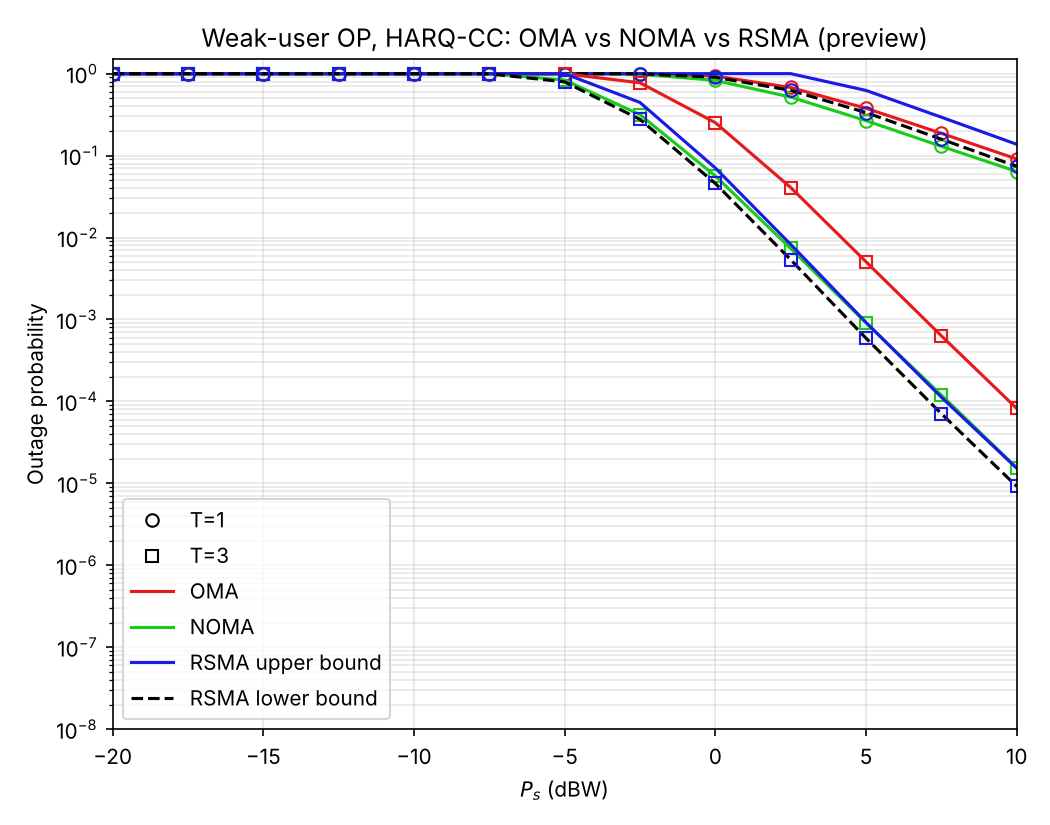
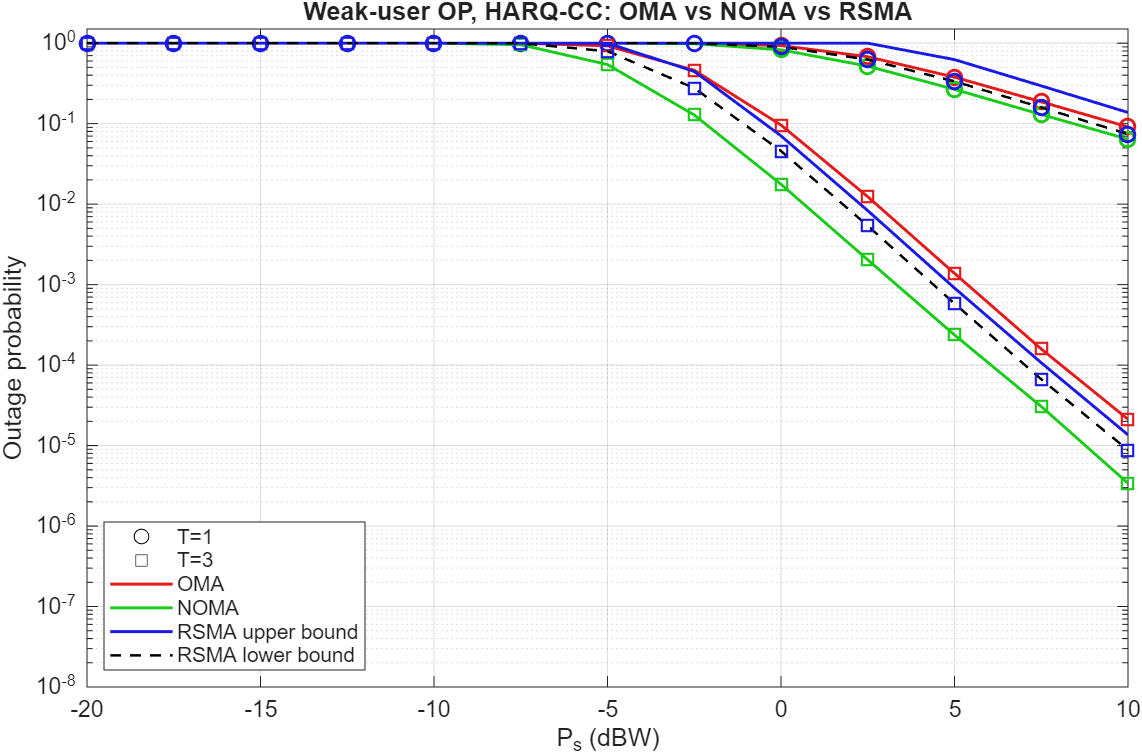
v2: fix HARQ user ordering, drop Statistics Toolbox dependency
- order_users.m (new): weak/strong roles fixed across HARQ rounds
  (p.order = 'first' default; 'sum' genie; 'round' = old per-round min/max,
  which mixed two physical users and is inconsistent with HARQ-CC)
- sr_gain.m: replace randg (needs Statistics and Machine Learning Toolbox)
  with a built-in Marsaglia-Tsang Gamma sampler, checked against eq. (4)
- rsma_outage.m: check alpha_c + sum(alpha_p) = 1
- fig2_check.m: paper reference values, ours-vs-paper printout, legend
- fig4_reproduce.m: print ordering, optional fairRSMA weak-user curve
- istn_params.m: p.order, p.extra_gain_dB diagnostic knob (default 0)
- plots forced to light theme (R2025b dark mode hid markers)
- README: v2 changes, assumptions, known gaps vs the paper
- results_preview.png / fig2_check_v2.png / run_output_v2.txt regenerated
  in MATLAB R2025b

diff --git a/fig4_reproduce.m b/fig4_reproduce.m
@@ -1,17 +1,21 @@
 %% FIG4_REPRODUCE  Weak-user outage: HARQ-CC aided OMA vs NOMA vs RSMA
 % Reproduces Fig. 4 of Hu et al., IEEE TVT 2025 (Monte Carlo only).
 % Files needed in the same folder:
-%   istn_params.m  sr_gain.m  oma_outage.m  noma_outage.m  rsma_outage.m
+%   istn_params.m  sr_gain.m  order_users.m  oma_outage.m  noma_outage.m  rsma_outage.m
+% RSMA curve = generic user (as in the paper's analysis). Set fairRSMA = true
+% to also plot RSMA's weak user under the same ordering rule as NOMA/OMA.
 clear; clc;
 
 p    = istn_params();
 PsdB = -20:2.5:10;          % paper's x-axis
 Tset = [1 3];               % paper plots T = 1 and T = 3
 N    = 1e7;                 % samples per point. OP below ~1e-6 needs N >= 1e8
+fairRSMA = false;           % true: add RSMA weak-user curve (like-for-like)
 
 fprintf('g_k = %.3f (%.2f dB),  N0 = %.3e W\n', p.g, 10*log10(p.g), p.N0);
 fprintf('R1 = %.4f bps/Hz | thresholds: NOMA %.4f, OMA %.4f, RSMA c/p %.2f/%.2f\n', ...
         p.R1, p.g_noma, p.g_oma, p.gc_th, p.gp_th);
+fprintf('ordering = %s | extra gain = %g dB\n', p.order, p.extra_gain_dB);
 
 res = struct();
 for it = 1:numel(Tset)
@@ -24,11 +28,17 @@ for it = 1:numel(Tset)
     [res(it).rsma, A1, A2] = rsma_outage(PsdB, T, N, p);
     res(it).rsmaUp = min(A1 + A2, 1);
     res(it).rsmaLo = max(A1, A2);
+    if fairRSMA
+        q = p;  q.rsma_ordered = true;
+        res(it).rsmaW = rsma_outage(PsdB, T, N, q);
+    end
     fprintf('  done in %.1f s\n', toc);
 
     fprintf('  Ps(dBW)   OMA        NOMA       RSMA\n');
     for i = 1:numel(PsdB)
-        fprintf('  %6.1f   %.3e  %.3e  %.3e\n', PsdB(i), res(it).oma(i), res(it).noma(i), res(it).rsma(i));
+        fprintf('  %6.1f   %.3e  %.3e  %.3e', PsdB(i), res(it).oma(i), res(it).noma(i), res(it).rsma(i));
+        if fairRSMA, fprintf('  (RSMA weak %.3e)', res(it).rsmaW(i)); end
+        fprintf('\n');
     end
 end
 
@@ -38,6 +48,7 @@ cO = [0.90 0.10 0.10];  cN = [0.10 0.80 0.10];  cR = [0.10 0.10 0.90];
 mk = {'o','s'};
 
 figure('Color','w'); hold on; box on; grid on;
+if exist('theme','file') || exist('theme','builtin'), theme(gcf,'light'); end   % R2025a+ dark mode hides black markers
 for it = 1:numel(Tset)
     m = mk{it};
     semilogy(PsdB, nz(res(it).oma),   ['-' m], 'Color', cO, 'LineWidth', 1.4, 'MarkerSize', 7);
@@ -45,6 +56,9 @@ for it = 1:numel(Tset)
     semilogy(PsdB, nz(res(it).rsmaUp), '-',     'Color', cR, 'LineWidth', 1.4);
     semilogy(PsdB, nz(res(it).rsmaLo), '--k',   'LineWidth', 1.2);
     semilogy(PsdB, nz(res(it).rsma),   m,       'Color', cR, 'LineWidth', 1.4, 'MarkerSize', 7);
+    if fairRSMA
+        semilogy(PsdB, nz(res(it).rsmaW), ['-.' m], 'Color', [0.3 0.6 1], 'LineWidth', 1.2, 'MarkerSize', 6);
+    end
 end
 set(gca, 'YScale', 'log', 'FontSize', 11);
 xlim([min(PsdB) max(PsdB)]);  ylim([1e-8 1.5]);
@@ -58,7 +72,11 @@ h(3) = plot(nan, nan, '-',  'Color', cO, 'LineWidth', 1.4);
 h(4) = plot(nan, nan, '-',  'Color', cN, 'LineWidth', 1.4);
 h(5) = plot(nan, nan, '-',  'Color', cR, 'LineWidth', 1.4);
 h(6) = plot(nan, nan, '--k','LineWidth', 1.2);
-legend(h, {'T=1','T=3','OMA','NOMA','RSMA upper bound','RSMA lower bound'}, ...
-       'Location', 'southwest');
+names = {'T=1','T=3','OMA','NOMA','RSMA upper bound','RSMA lower bound'};
+if fairRSMA
+    h(7) = plot(nan, nan, '-.', 'Color', [0.3 0.6 1], 'LineWidth', 1.2);
+    names{end+1} = 'RSMA weak user';
+end
+legend(h, names, 'Location', 'southwest');
 
 save('fig4_results.mat', 'res', 'PsdB', 'p', 'N');

diff --git a/istn_params.m b/istn_params.m
@@ -36,16 +36,31 @@ p.Gs = Gs;
 
 % Gk = c*sqrt(Gs*Gr)/(4*pi*fc*d),  g_k = Gk^2/N0   (eq. (5))
 Gk  = p.c*sqrt(Gs*Gr)/(4*pi*p.fc*p.d);
-p.g = Gk^2/p.N0;              % so that SNR = Ps * g * |h|^2  (~0.74 dB)
+p.g_paper = Gk^2/p.N0;        % so that SNR = Ps * g * |h|^2  (~0.74 dB)
+
+% [DIAGNOSTIC, not in paper] extra link gain in dB. Keep 0 for the paper's
+% stated parameters. With +6 dB our Fig. 4 RSMA and T=1 OMA curves land on the
+% published ones, while Fig. 2 matches at 0 dB -> the paper's Fig. 4 seems to
+% use ~6 dB more SNR than its stated parameters give. See README.
+p.extra_gain_dB = 0;
+p.g = p.g_paper * 10^(p.extra_gain_dB/10);
 
 %% ---------------- RSMA (Fig. 4 caption) [paper]
 p.alpha_c   = 0.4;            % common-stream power fraction
 p.alpha_p   = [0.3 0.3];      % private-stream fractions (K = 2 users)
 p.gc_th     = 0.4;            % common decoding threshold  (SINR, linear)
 p.gp_th     = 0.4;            % private decoding threshold (SINR, linear)
-p.rsma_ordered = false;       % paper's RSMA analysis treats user k as a generic
-                              % i.i.d. user (no ordering). Set true to make RSMA's
-                              % "weak user" the min-channel user, like NOMA/OMA.
+p.rsma_ordered = false;       % paper's RSMA analysis (eqs 9, 11) treats user k as a
+                              % generic i.i.d. user (no ordering), and its Fig. 4
+                              % RSMA curves come from that analysis. Set true to
+                              % make RSMA's user the weak user (same rule as
+                              % NOMA/OMA, p.order) for a like-for-like comparison.
+
+%% ---------------- Weak/strong user ordering across HARQ rounds [ASSUMED]
+% 'first' : roles set by round-1 channel, kept for all T rounds (default)
+% 'sum'   : roles set by accumulated channel over T rounds (genie benchmark)
+% 'round' : per-round min/max (old v1 behaviour, physically inconsistent)
+p.order = 'first';
 
 %% ---------------- Equal-rate conversion [paper]
 p.Rc = log2(1 + p.gc_th);     % common target rate (bps/Hz)
@@ -60,6 +75,8 @@ p.g_noma  = 2^p.R1 - 1;          % SINR threshold for R1
 %% ---------------- OMA (TDMA) [ASSUMED interpretation]
 % Each user gets half the time, so to deliver R1 on average it must run at
 % 2*R1 inside its own slot (full power, no interference).
+% Support for this reading: with 2^R1 - 1 instead, OMA would beat NOMA at
+% T = 1, contradicting the paper's Fig. 4 ranking (OMA worst).
 p.g_oma = 2^(2*p.R1) - 1;
 
 %% ---------------- Simulation

diff --git a/fig2_check.m b/fig2_check.m
@@ -1,21 +1,40 @@
 %% FIG2_CHECK  Sanity check of the system model against the paper's Fig. 2
 % K = 3, alpha_c = 0.4, alpha_1 = alpha_2 = alpha_3 = 0.2, gc_th = gp_th = 0.4
-% Paper's Fig. 2 values to compare against (read off the plot / text):
-%   T = 2 : ~8.6e-3 at 10 dBW,  ~5e-4 at 15 dBW
-%   T = 3 : ~8.7e-3 at  5 dBW,  ~1.5e-4 at 10 dBW
+% RSMA user k is the generic (unordered) user, as in the paper's analysis.
+% Paper's Fig. 2 simulation points (read off the published plot; the 5 dBW,
+% T = 3 value 8.74e-3 is quoted in the paper's text):
+%   T = 1 : 0.55 @ 10 dBW,  0.145 @ 15 dBW,  0.047 @ 20 dBW
+%   T = 2 : 0.15 @  5 dBW,  8.7e-3 @ 10 dBW, 4.95e-4 @ 15 dBW
+%   T = 3 : 0.35 @  0 dBW,  8.74e-3 @ 5 dBW, 1.4e-4 @ 10 dBW
 clear; clc;
 p = istn_params();
 p.alpha_p = [0.2 0.2 0.2];
 PsdB = -10:5:20;
-N    = 2e6;
+N    = 2e6;            % T = 3 points below ~1e-5 need N >= 1e7
 
+ref = { [10 0.55; 15 0.145; 20 0.047], ...
+        [5 0.15; 10 8.7e-3; 15 4.95e-4], ...
+        [0 0.35; 5 8.74e-3; 10 1.4e-4] };
+
+nz = @(v) v ./ (v > 0);               % 0 -> NaN (dropped from log plot)
 figure('Color','w'); hold on; grid on; box on;
+if exist('theme','file') || exist('theme','builtin'), theme(gcf,'light'); end   % R2025a+ dark mode hides black markers
 mk = {'o','x','s'};
 for T = 1:3
     [OP, A1, A2] = rsma_outage(PsdB, T, N, p);
-    fprintf('T=%d: ', T); fprintf('%.2e  ', OP); fprintf('\n');
-    semilogy(PsdB, OP, ['k' mk{T}], 'MarkerSize', 7);
-    semilogy(PsdB, min(A1+A2,1), 'b-', PsdB, max(A1,A2), 'r--');
+    fprintf('T=%d  ours: ', T); fprintf('%.2e  ', OP); fprintf('\n');
+    for r = 1:size(ref{T},1)
+        i = find(PsdB == ref{T}(r,1));
+        fprintf('       %2d dBW: ours %.2e  paper %.2e  (ratio %.2f)\n', ...
+                ref{T}(r,1), OP(i), ref{T}(r,2), OP(i)/ref{T}(r,2));
+    end
+    semilogy(PsdB, nz(OP), ['k' mk{T}], 'MarkerSize', 7);
+    semilogy(PsdB, nz(min(A1+A2,1)), 'b-', PsdB, nz(max(A1,A2)), 'r--');
 end
 set(gca,'YScale','log'); ylim([1e-6 1.5]);
 xlabel('P_s (dBW)'); ylabel('Outage probability'); title('Fig. 2 check (K = 3)');
+
+h(1) = plot(nan, nan, 'ko');  h(2) = plot(nan, nan, 'kx');  h(3) = plot(nan, nan, 'ks');
+h(4) = plot(nan, nan, 'b-');  h(5) = plot(nan, nan, 'r--');
+legend(h, {'Sim T=1','Sim T=2','Sim T=3','Upper bound (MC)','Lower bound (MC)'}, ...
+       'Location', 'southwest');

diff --git a/order_users.m b/order_users.m
@@ -1,0 +1,41 @@
+function [xw, xs] = order_users(H, how)
+% ORDER_USERS  Pick the weak and strong user's channel gains over T HARQ rounds.
+%
+%   [xw, xs] = order_users(H, how)
+%     H   : T x n x K array of |h|^2  (rounds x samples x users)
+%     how : 'first' - roles fixed by the round-1 channel and kept for all T
+%                     rounds (default). HARQ-CC resends the SAME superposed
+%                     packet, so the power split and decoding order (who is
+%                     weak/strong) cannot change between rounds.
+%           'sum'   - roles fixed by the accumulated gain sum_t |h_t|^2
+%                     (genie: needs CSI of future rounds; upper benchmark).
+%           'round' - per-round min/max (old behaviour). Inconsistent: the
+%                     "weak user" is then a different physical user in
+%                     different rounds, and its accumulated SINR is not any
+%                     real user's. Kept only for comparison.
+%     xw, xs : T x n gains of the weakest / strongest user.
+%
+%   [ASSUMED] The paper only says users are "distinguished by the channel
+%   quality" (footnote 3); it does not say how roles are kept across rounds.
+
+[T, n, K] = size(H);
+switch how
+    case 'round'
+        xw = min(H, [], 3);
+        xs = max(H, [], 3);
+        return;
+    case 'first'
+        key = H(1, :, :);          % 1 x n x K
+    case 'sum'
+        key = sum(H, 1);           % 1 x n x K
+    otherwise
+        error('order_users: unknown ordering ''%s''.', how);
+end
+[~, iw] = min(key, [], 3);         % 1 x n, index of weak user per sample
+[~, is] = max(key, [], 3);         % 1 x n, index of strong user per sample
+
+rows = repmat((1:T)', 1, n);
+cols = repmat(1:n, T, 1);
+xw = H(sub2ind([T n K], rows, cols, repmat(iw, T, 1)));
+xs = H(sub2ind([T n K], rows, cols, repmat(is, T, 1)));
+end

diff --git a/rsma_outage.m b/rsma_outage.m
@@ -11,7 +11,8 @@ function [OP, PrA1, PrA2] = rsma_outage(PsdB, T, N, p)
 %   common  (eq. 5): gamma_c = a_c*rho*x / ( sum_j a_j * rho*x + 1 )
 %   private (eq. 6): gamma_p = a_k*rho*x / ( sum_{j~=k} a_j * rho*x + 1 )   (after perfect SIC of s_c)
 % HARQ-CC: SINRs are summed over T rounds (eq. (1)).
-% K = numel(p.alpha_p). If p.rsma_ordered, user 1 = min channel among K users.
+% K = numel(p.alpha_p). If p.rsma_ordered, user 1 = weakest of the K users,
+% chosen by order_users(..., p.order) (same rule as NOMA/OMA).
 %
 % Run with no inputs for a quick stand-alone plot.
 
@@ -29,6 +30,9 @@ if nargin == 0
 end
 
 ac = p.alpha_c;  ap = p.alpha_p;  K = numel(ap);  k = 1;
+if abs(ac + sum(ap) - 1) > 1e-9
+    error('Power coefficients must satisfy alpha_c + sum(alpha_p) = 1 (eq. 2); got %.4f.', ac + sum(ap));
+end
 sumP   = sum(ap);              % all private powers (interference for s_c)
 sumOth = sumP - ap(k);         % other users' private powers (interference for s_k)
 
@@ -45,8 +49,9 @@ nDone = 0;
 while nDone < N
     n = min(p.chunk, N - nDone);
     if p.rsma_ordered
-        x = sr_gain([T n], p);
-        for u = 2:K, x = min(x, sr_gain([T n], p)); end
+        H = sr_gain([T n], p);
+        for u = 2:K, H = cat(3, H, sr_gain([T n], p)); end
+        x = order_users(H, p.order);
     else
         x  = sr_gain([T n], p);
         x2 = sr_gain([T n], p);  %#ok<NASGU> keep RNG stream aligned with OMA/NOMA

diff --git a/sr_gain.m b/sr_gain.m
@@ -4,10 +4,36 @@ function x = sr_gain(sz, p)
 %   A^2 ~ Gamma(shape m, scale Omega/m)   (Nakagami-m LOS amplitude)
 %   phi ~ U[0, 2pi)
 %   Z  ~ CN(0, 2b)                        (diffuse multipath)
-% randg is core MATLAB (no Statistics Toolbox needed).
+% Uses gamma_core (below) instead of randg, because randg needs the
+% Statistics and Machine Learning Toolbox. Only rand/randn are used.
 
-A2  = (p.Omega/p.m) * randg(p.m, sz);
+A2  = (p.Omega/p.m) * gamma_core(p.m, sz);
 phi = 2*pi*rand(sz);
 Z   = sqrt(p.b) * (randn(sz) + 1j*randn(sz));
 x   = abs(sqrt(A2).*exp(1j*phi) + Z).^2;
+end
+
+function g = gamma_core(a, sz)
+% GAMMA_CORE  Gamma(shape a, scale 1) samples, no toolbox needed.
+% Marsaglia & Tsang (2000) rejection method, vectorised. For a < 1 uses the
+% boost Gamma(a) = Gamma(a+1) * U^(1/a).
+if a < 1
+    g = gamma_core(a + 1, sz) .* rand(sz).^(1/a);
+    return;
+end
+d = a - 1/3;
+c = 1/sqrt(9*d);
+g = zeros(sz);
+todo = true(sz);
+while any(todo(:))
+    k = nnz(todo);
+    z = randn(k, 1);
+    v = (1 + c*z).^3;
+    u = rand(k, 1);
+    ok = v > 0;
+    ok(ok) = log(u(ok)) < 0.5*z(ok).^2 + d - d*v(ok) + d*log(v(ok));
+    idx = find(todo);
+    g(idx(ok)) = d * v(ok);
+    todo(idx(ok)) = false;
+end
 end

diff --git a/oma_outage.m b/oma_outage.m
@@ -12,7 +12,8 @@ function [OPweak, OPstrong] = oma_outage(PsdB, T, N, p)
 % HARQ-CC (MRC of identical packets) -> accumulated SINR = sum_t gamma_t
 % Outage if  sum_t gamma_t < g_oma,  g_oma = 2^(2*R1) - 1
 % (rate doubled because each user only owns half the time).
-% Weak/strong user = min/max of the two users' channel gains in each round.
+% Weak/strong user: chosen by order_users(..., p.order). Default 'first' =
+% roles fixed by the round-1 channel and kept for all T rounds.
 %
 % Run with no inputs for a quick stand-alone plot.
 
@@ -36,7 +37,7 @@ while nDone < N
     n  = min(p.chunk, N - nDone);
     h1 = sr_gain([T n], p);
     h2 = sr_gain([T n], p);
-    hw = min(h1,h2);  hs = max(h1,h2);   % per-round ordering
+    [hw, hs] = order_users(cat(3,h1,h2), p.order);   % fixed roles across rounds
     for i = 1:nP
         sw = Ps(i)*p.g*hw;  ss = Ps(i)*p.g*hs;
         cntW(i) = cntW(i) + sum(sum(sw,1) < p.g_oma);

diff --git a/noma_outage.m b/noma_outage.m
@@ -19,7 +19,9 @@ function [OPfar, OPnear] = noma_outage(PsdB, T, N, p)
 %   far outage  : sum gamma_1 < g_noma
 %   near outage : sum gamma_{2->1} < g_noma  OR  sum gamma_2 < g_noma
 % with g_noma = 2^R1 - 1, R1 = Rc/2 + Rp  (same per-user rate as RSMA).
-% Far/near = min/max of the two channel gains in each round.
+% Far/near user: chosen by order_users(..., p.order). Default 'first' = roles
+% fixed by the round-1 channel (HARQ-CC resends the same superposed packet,
+% so the power split and SIC order cannot change between rounds).
 %
 % Run with no inputs for a quick stand-alone plot.
 
@@ -49,7 +51,7 @@ while nDone < N
     n  = min(p.chunk, N - nDone);
     h1 = sr_gain([T n], p);
     h2 = sr_gain([T n], p);
-    xf = min(h1,h2);  xn = max(h1,h2);
+    [xf, xn] = order_users(cat(3,h1,h2), p.order);
     for i = 1:nP
         rho = Ps(i)*p.g;
         % far user

diff --git a/README.md b/README.md
@@ -1,43 +1,58 @@
-# rsma-istn-outage
+# rsma-istn-outage (v2)
 
 MATLAB Monte Carlo simulation of weak-user outage probability for HARQ-CC aided OMA, NOMA and RSMA in integrated satellite-terrestrial networks, reproducing Fig. 4 of Hu et al., "Outage Analysis of RSMA Enabled Integrated Satellite-Terrestrial Networks", IEEE TVT 2025.
 
 ![Result preview](results_preview.png)
 
-*Preview generated by a line-by-line Python port of this code (N = 1e7 per point); MATLAB output should match up to Monte Carlo noise.*
+*Preview generated in MATLAB R2025b from v2 (ordering 'first', N = 1e7). Fig. 2 check: `fig2_check_v2.png`. Console output: `run_output_v2.txt`.*
 
-## Fig. 4 reproduction — HARQ-CC OMA vs NOMA vs RSMA (Hu et al., IEEE TVT 2025)
+## How to run
 
 Put all `.m` files in one folder, then in MATLAB:
 
 ```
 fig4_reproduce    % main figure (weak-user OP, T = 1 and T = 3)
-fig2_check        % sanity check against the paper's Fig. 2 (K = 3 RSMA)
+fig2_check        % sanity check against the paper's Fig. 2 (K = 3 RSMA), prints ours vs paper
 oma_outage        % each scheme also runs on its own with no arguments
 noma_outage
 rsma_outage
 ```
 
-No toolboxes needed (`randg`, `besselj` are core MATLAB).
+No toolboxes needed: v2 draws Gamma samples with its own Marsaglia–Tsang routine inside `sr_gain.m` (v1 used `randg`, which needs the Statistics and Machine Learning Toolbox and failed on a plain MATLAB install). Also runs in GNU Octave.
 
 | File | What it does |
 |---|---|
-| `istn_params.m` | All parameters from the paper (link budget, Shadowed-Rician AS, power splits, thresholds) |
-| `sr_gain.m` | Draws Shadowed-Rician `|h|^2` |
-| `oma_outage.m` | TDMA, weak & strong user OP |
+| `istn_params.m` | All parameters from the paper (link budget, Shadowed-Rician AS, power splits, thresholds), plus the assumed ones, marked [ASSUMED] |
+| `sr_gain.m` | Draws Shadowed-Rician `|h|^2` (checked against the paper's eq. 4 CDF) |
+| `order_users.m` | **new in v2**: picks the weak/strong user's channels over the T rounds (`p.order`) |
+| `oma_outage.m` | TDMA, weak and strong user OP |
 | `noma_outage.m` | NOMA far (weak) and near (strong, with SIC) user OP |
-| `rsma_outage.m` | 1-layer RSMA user OP + Pr{A1}, Pr{A2} for the eq. (8) bounds |
-| `fig4_reproduce.m` | Runs all three for T = 1, 3 and plots like Fig. 4 |
+| `rsma_outage.m` | 1-layer RSMA user OP, plus Pr{A1} and Pr{A2} for the eq. (8) bounds |
+| `fig4_reproduce.m` | Runs all three for T = 1, 3 and plots like Fig. 4 (`fairRSMA = true` adds the RSMA weak-user curve) |
+
+## Changes from v1
+
+1. **Weak/strong ordering across HARQ rounds (fix).** v1 took `min/max` of the two users' gains in *every round*. Under HARQ-CC the identical superposed packet is resent each round, so the roles (power split, SIC order) cannot change between rounds. v1's "weak user" was therefore a different physical user in different rounds. v2 adds `p.order`:
+   - `'first'` (default): roles are fixed by the round-1 channel and kept for all rounds.
+   - `'sum'`: roles are fixed by the accumulated gain (a genie benchmark). It gives almost the same results as `'first'`.
+   - `'round'`: the v1 behaviour, kept for comparison.
+
+   T = 1 results are unchanged. At T = 3, NOMA and OMA OP drop by about 4x at 5 dBW.
+2. **No toolbox dependency.** `sr_gain` no longer calls `randg` (Statistics Toolbox). It uses a built-in Marsaglia–Tsang Gamma sampler, checked against eq. 4 CDF.
+3. **Power check.** `rsma_outage` now errors if `alpha_c + sum(alpha_p) != 1` (eq. 2).
+4. **`fig2_check`** uses the values actually read off the paper's Fig. 2, prints ours vs paper, has a legend, and drops zero-OP points from the log plot.
+5. **`fig4_reproduce`** prints the ordering in use and has a `fairRSMA` option.
+6. **`p.extra_gain_dB`** is a diagnostic knob (default 0). See the known gaps below.
 
 ## Assumptions not stated in the paper
-- Users at beam centre (θ = 0 ⇒ Gs = Gmax).
-- OMA = TDMA with half the time per user ⇒ in-slot threshold 2^(2R1) − 1.
-- NOMA/OMA weak user = min of the two users' channel gains in each round.
-  RSMA user k is the generic i.i.d. user, as in the paper's analysis
-  (set `p.rsma_ordered = true` to order RSMA too).
+- Users are at beam centre (θ = 0, so Gs = Gmax).
+- OMA = TDMA with half the time per user, so the in-slot threshold is 2^(2R1) − 1. With 2^R1 − 1 instead, OMA would beat NOMA at T = 1, contradicting the paper's ranking.
+- Weak/strong roles are fixed by the round-1 channel (`p.order = 'first'`).
+- RSMA user k is the generic i.i.d. user, as in the paper's analysis (eqs. 9 and 11), whose curves are what Fig. 4 shows for RSMA.
+- E|h|² = Ω + 2b = 1.087 is not normalised. The paper doesn't normalise it either.
 
-## Known gap vs. the published figure
-The model reproduces Fig. 2 closely, and the ranking in Fig. 4
-(T=1: NOMA < RSMA < OMA; T=3: RSMA < NOMA < OMA), but the published
-Fig. 4 curves sit about 5–6 dB to the left of these. Fig. 4 must use
-some setting the paper doesn't state.
+## Known gaps vs the published figures
+- **Fig. 2:** T = 2 matches within about 10%, and T = 3 within 10–25% (under 1 dB). The paper's T = 1 points are higher than ours (2x at 20 dBW).
+- **Fig. 4 sits about 6 dB right of the paper.** The paper's Fig. 4 seems internally inconsistent with its Fig. 2. Both use α_c = 0.4 with 0.6 of the power on the private streams, so Pr{A1} (common-stream outage) is the same function of Ps in both. With the SNR that reproduces Fig. 2, Pr{A1} = 0.074 at 10 dBW, T = 1. Yet Fig. 4 shows the full RSMA OP at about 0.018 there, and OP ≥ Pr{A1}. Setting `p.extra_gain_dB = 6` brings our RSMA curves (T = 1, 3) and the OMA T = 1 curve to within about 25% of the published ones.
+- **NOMA/OMA at T = 3.** Even with +6 dB and the v1 per-round ordering (the most pessimistic choice), the paper's NOMA and OMA T = 3 curves are worse than ours. The paper's NOMA/OMA HARQ model is not fully specified.
+- **Ranking at T = 3 depends on ordering.** With physically consistent ordering, NOMA's weak user beats RSMA's generic user (2.4e-4 vs 5.9e-4 at 5 dBW), and RSMA's own weak user is worse still (1.1e-3). The paper's "RSMA-HARQ is best" result compares a generic RSMA user with the weakest NOMA/OMA user.
